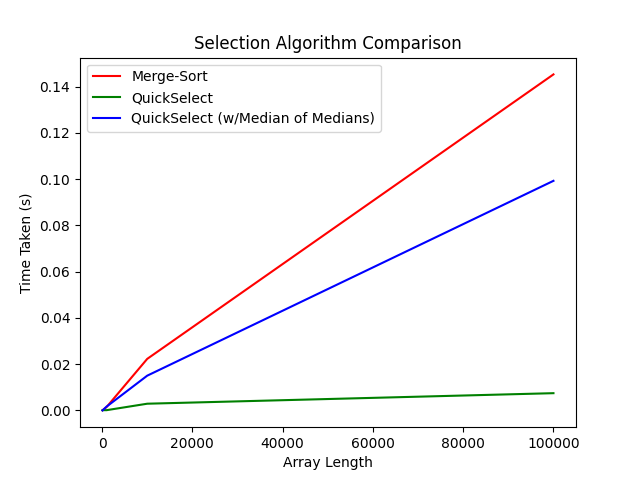
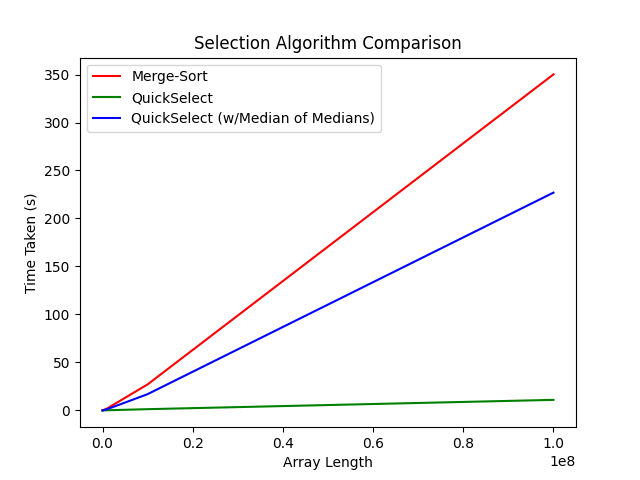
generate results

diff --git a/main.py b/main.py
@@ -473,7 +473,7 @@ def execute(
     print("hello :)")
 
     # "Constants" - dimensions actually changes every iteration... but whatever
-    FILE_NAME = "comparison"
+    FILE_NAME = "_comparison"
     DIMENSIONS = 100
     R = 10
 
@@ -528,6 +528,6 @@ def execute(
     plot(to_plot, FILE_NAME)
 
 if __name__ == "__main__":
-    execute()
+    execute([(100, 0.0, 0.0, 9.999275207519531e-05), (1000, 0.0008943080902099609, 0.00014681816101074218, 0.000851297378540039), (10000, 0.011581492424011231, 0.0014954328536987305, 0.009713506698608399), (100000, 0.174629807472229, 0.008880877494812011, 0.11173441410064697), (1000000, 1.9756410121917725, 0.13993983268737792, 1.221646285057068), (10000000, 27.11725652217865, 1.2761962175369264, 16.957574558258056), (100000000, 350.12648422718047, 10.97463779449463, 226.94087131023406)])
 
 
